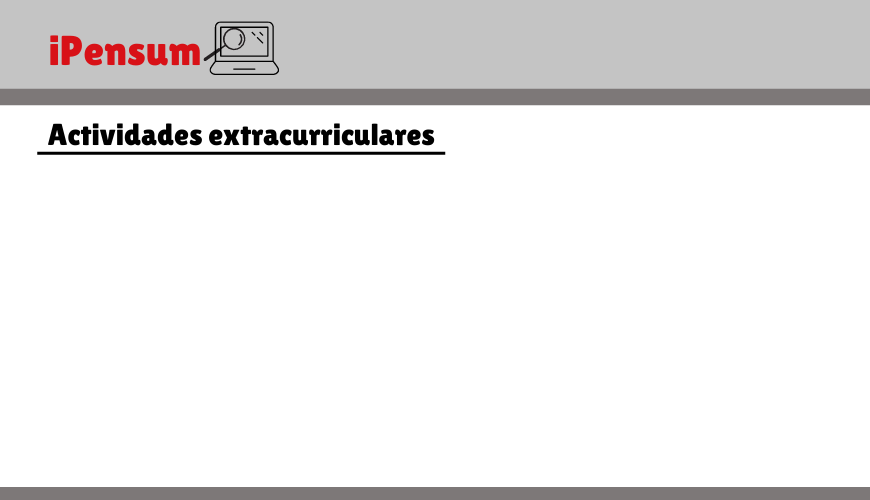
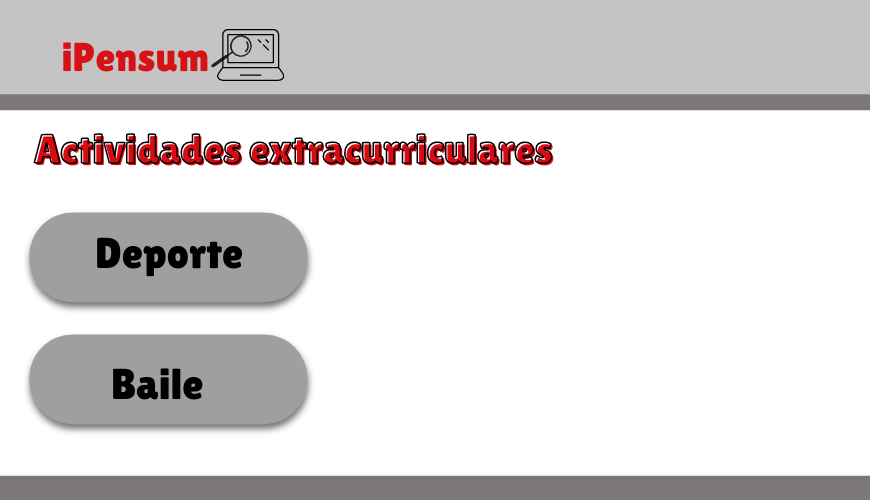
update

diff --git a/App.py b/App.py
@@ -12,11 +12,24 @@ ventana.title("iPensum")
 ventana.resizable(width=0, height=0)
 
 # CARGAR IMAGENES
-inicio = tk.PhotoImage(file="imagenes/inicio.png")#
-#"""
+inicio = tk.PhotoImage(file="imagenes/inicio.png")
+# """
 main = tk.PhotoImage(file="imagenes/main.png")
 Busqueda = tk.PhotoImage(file="imagenes/MenuBusqueda.png")
 busqE = tk.PhotoImage(file="imagenes/busqE.png")
+errorC = tk.PhotoImage(file="imagenes/CamposVacios.png")
+botonLogin = tk.PhotoImage(file="imagenes/botonLogin.png")
+Instrucciones = tk.PhotoImage(file="imagenes/Instrucciones.png")
+botonSeguir = tk.PhotoImage(file="imagenes/botonSeguirmain.png")
+eleccion = tk.PhotoImage(file="imagenes/elegirSemestre.png")
+borrar = tk.PhotoImage(file="imagenes/BotonBorrar.png")
+Cerrar = tk.PhotoImage(file="imagenes/BotonClose.png")
+InvalidCode = tk.PhotoImage(file="imagenes/codeInvalid.png")
+semPlantilla = tk.PhotoImage(file="imagenes/semestrePlantilla.png")
+menuExtra = tk.PhotoImage(file="imagenes/menuExtra.png")
+menuRating = tk.PhotoImage(file="imagenes/menuRating.png")
+
+# BOTONES
 botonGuest = tk.PhotoImage(file="imagenes/botonGuest.png")
 botonStudent = tk.PhotoImage(file="imagenes/botonStudent.png")
 botonTuerca = tk.PhotoImage(file="imagenes/botonTuerca.png")
@@ -25,18 +38,7 @@ botonMalla = tk.PhotoImage(file="imagenes/botonMalla.png")
 botonSemestre = tk.PhotoImage(file="imagenes/botonSemestre.png")
 botonActividades = tk.PhotoImage(file="imagenes/botonActividades.png")
 botonRating = tk.PhotoImage(file="imagenes/botonRating.png")
-errorC = tk.PhotoImage(file="imagenes/CamposVacios.png")
-botonLogin = tk.PhotoImage(file="imagenes/botonLogin.png")
-Instrucciones = tk.PhotoImage(file="imagenes/Instrucciones.png")
-botonSeguir = tk.PhotoImage(file="imagenes/botonSeguirmain.png")
-eleccion = tk.PhotoImage(file="imagenes/elegirSemestre.png")
-borrar = tk.PhotoImage(file="imagenes/BotonBorrar.png")
-InvalidCode = tk.PhotoImage(file="imagenes/codeInvalid.png")
-semPlantilla = tk.PhotoImage(file="imagenes/semestrePlantilla.png")
-menuExtra = tk.PhotoImage(file = "imagenes/MenuExtra.png")
-menuRating = tk.PhotoImage (file = "imagenes/menuRating.png")
-#"""
-# BOTONES 
+# Botones para el semestre 
 BotonPrimer = tk.PhotoImage(file="imagenes/BotonPrimer.png")
 BotonSegundo = tk.PhotoImage(file="imagenes/BotonSegundo.png")
 BotonTercero = tk.PhotoImage(file="imagenes/BotonTercero.png")
@@ -49,10 +51,8 @@ BotonNoveno = tk.PhotoImage(file="imagenes/BotonNoveno.png")
 BotonDecimo = tk.PhotoImage(file="imagenes/BotonDecimo.png")
 
 
-# NOTAAAAAAAA  -> font=("Calibri",14,"bold")
 
-
-def MainMenu(): #PRINCIPAL
+def MainMenu():  # PRINCIPAL
 
     fondo = tk.Label(ventana, image=inicio).place(x=0, y=0)  # FRAME
     # BOTON PARA INICIAR
@@ -63,6 +63,7 @@ def MainMenu(): #PRINCIPAL
     # Create a Button to call close()
     tk.Button(ventana, image=borrar, command=close, borderwidth=0,
               width=50, height=50, cursor="heart").place(x=800, y=29)
+
 
 def MenuInicial():  # La manera en la que desea ingresar (GUEST OR STUDENT)
     for ele in ventana.winfo_children():
@@ -75,7 +76,7 @@ def MenuInicial():  # La manera en la que desea ingresar (GUEST OR STUDENT)
     # Propiedades del boton, command = MenuBusqueda y command = MenuLogueo es lo que se debe ejecutar
     # BOTON PARA INVITADOS
     botonG = tk.Button(ventana, image=botonGuest, width=150,
-                       command=MenuBusqueda, cursor="heart", borderwidth=0) 
+                       command=MenuBusqueda, cursor="heart", borderwidth=0)
     botonG.place(x=235, y=400, height=60)
     # BOTON PARA ESTUDIANTES
     botonE = tk.Button(ventana, image=botonStudent, width=150,
@@ -86,7 +87,7 @@ def MenuInicial():  # La manera en la que desea ingresar (GUEST OR STUDENT)
                        borderwidth=0, command=MenuInstrucciones, cursor="heart")
     botonT.place(x=786, y=20, height=52)
     # Create a Button to call close()
-    tk.Button(ventana, image=borrar, command=close, borderwidth=0,
+    tk.Button(ventana, image=Cerrar, command=close, borderwidth=0,
               width=50, height=50, cursor="heart").place(x=10, y=3)
 
 
@@ -149,17 +150,18 @@ def MenuLogueo():  # Menu que me lleva al inicio de sesión como estudiante - LO
     botonB = tk.Button(ventana, image=botonBack, width=60,
                        command=MenuInicial, borderwidth=0, cursor="heart")
     botonB.place(x=750, y=11, height=69)
-    
+
     # Create a Button to call close()
-    tk.Button(ventana, image=borrar, command=close, borderwidth=0,
+    tk.Button(ventana, image=Cerrar, command=close, borderwidth=0,
               width=50, height=50, cursor="heart").place(x=10, y=3)
 
-def MenuBusqueda():  # En este menu, puede elegir que desea buscar 
+
+def MenuBusqueda():  # En este menu, puede elegir que desea buscar
     for ele in ventana.winfo_children():
         ele.destroy()
     interfaz = tk.Canvas(ventana)
     interfaz.pack()
-    label1 = tk.Label(interfaz, image= Busqueda)
+    label1 = tk.Label(interfaz, image=Busqueda)
     label1.pack()
 
     # RETURN MALLA
@@ -173,21 +175,22 @@ def MenuBusqueda():  # En este menu, puede elegir que desea buscar
 
     # RETURN ACTIVIDADES EXTRACURRICULARES
     botonA = tk.Button(ventana, image=botonActividades,
-                       width=310, borderwidth=0, command = MenuActividades, cursor="heart")
+                       width=310, borderwidth=0, command=MenuActividades, cursor="heart")
     botonA.place(x=482, y=350, height=40)
     # RETURN RATING ZONE
     botonR = tk.Button(ventana, image=botonRating, width=140,
-                       borderwidth=0, cursor="heart", command = MenuRating)
-    botonR.place(x=480, y=389, height=45)
+                       borderwidth=0, cursor="heart", command=MenuRating)
+    botonR.place(x=480, y=386, height=45)
 
     # BACK TO MAIN
     botonB = tk.Button(ventana, image=botonBack, width=60,
                        command=MenuInicial, borderwidth=0, cursor="heart")
     botonB.place(x=750, y=11, height=72)
-    
+
     # Create a Button to call close()
-    tk.Button(ventana, image=borrar, command=close, borderwidth=0,
+    tk.Button(ventana, image=Cerrar, command=close, borderwidth=0,
               width=50, height=50, cursor="heart").place(x=10, y=3)
+
 
 def MenuEleccionSemestre():  # Elección de semestre que desea ver
     for ele in ventana.winfo_children():
@@ -238,15 +241,15 @@ def MenuEleccionSemestre():  # Elección de semestre que desea ver
                             height=89, command=MenuSemestre, borderwidth=0, cursor="heart")
     botonDecimo.place(x=583, y=338)
 
-    #Back to menu de busqueda, para buscar algo de nuevo 
+    # Back to menu de busqueda, para buscar algo de nuevo
     botonB = tk.Button(ventana, image=botonBack, width=60,
                        command=MenuBusqueda, borderwidth=0, cursor="heart")
     botonB.place(x=750, y=11, height=72)
-    
+
     # Create a Button to call close()
-    tk.Button(ventana, image=borrar, command=close, borderwidth=0,
+    tk.Button(ventana, image=Cerrar, command=close, borderwidth=0,
               width=50, height=50, cursor="heart").place(x=10, y=3)
-    
+
 
 def MenuSemestre():  # Dependiendo de que semestre escoga, saldrá información acerca de esto
     for ele in ventana.winfo_children():
@@ -255,17 +258,15 @@ def MenuSemestre():  # Dependiendo de que semestre escoga, saldrá información 
     interfaz.pack()
     label1 = tk.Label(interfaz, image=semPlantilla)
     label1.pack()
-    
+
     # BACK TO MENU ESCOGENCIA (LO QUE QUIERE BUSCAR)
     botonB = tk.Button(ventana, image=botonBack, width=60,
-                    command=MenuEleccionSemestre, borderwidth=0, cursor="heart")
-    botonB.place(x=757, y= 7, height=72)
+                       command=MenuEleccionSemestre, borderwidth=0, cursor="heart")
+    botonB.place(x=757, y=7, height=72)
 
-    ##############################################
-    # ABRIR TXT DE MATERIAS, ESTE ES EL TXT DE LA INFO DE CADA MATERIA EN CADA SEM
-        
+    ''''
     txtM = []
-    with open("txtSemestre.txt") as fname:
+    with open("archivos_txt/txtSemestre.txt") as fname:
         for lineas in fname:
             txtM.append(lineas.split(","))
     i = 0
@@ -288,50 +289,62 @@ def MenuSemestre():  # Dependiendo de que semestre escoga, saldrá información 
     print (string)
     tk.Label(ventana, bg = "white", text=string,width = 90, height=2, font=("Calibri",14,"italic")).place(x=0,y=380)
     ##############################################
-    
+    '''
     # Create a Button to call close()
-    tk.Button(ventana, image=borrar, command=close, borderwidth=0,
+    tk.Button(ventana, image=Cerrar, command=close, borderwidth=0,
               width=50, height=50, cursor="heart").place(x=10, y=3)
 
-def MenuActividades (): #Menu de actividades extracurriculares 
+
+def MenuActividades():  # Menu de actividades extracurriculares
     for ele in ventana.winfo_children():
         ele.destroy()
     interfaz = tk.Canvas(ventana)
     interfaz.pack()
-    label1 = tk.Label(interfaz, image= menuExtra)
+    label1 = tk.Label(interfaz, image=menuExtra)
     label1.pack()
-    
-    
+
     # BACK TO MAIN
     botonB = tk.Button(ventana, image=botonBack, width=60,
                        command=MenuBusqueda, borderwidth=0, cursor="heart")
     botonB.place(x=750, y=11, height=69)
-    
+
     # Create a Button to call close()
-    tk.Button(ventana, image=borrar, command=close, borderwidth=0,
+    tk.Button(ventana, image=Cerrar, command=close, borderwidth=0,
               width=50, height=50, cursor="heart").place(x=10, y=3)
     
-def MenuRating(): #Menu de rating zone 
+    # Imprimir la información del txt como string
+    with open("archivos_txt/txtActividadesExtra.txt") as fname:
+        lines = fname.readlines()
+    # Conver list to str
+    string = "".join([str(item) for item in lines])
+    tk.Label(ventana, bg="white", text= string, width=50, height=10,
+             font=("Brown-courier", 14, "italic"), justify="left").place(x=310, y=218)
+
+def MenuRating():  # Menu de rating zone
     for ele in ventana.winfo_children():
-            ele.destroy()
+        ele.destroy()
     interfaz = tk.Canvas(ventana)
     interfaz.pack()
-    label1 = tk.Label(interfaz, image= menuRating)
+    label1 = tk.Label(interfaz, image=menuRating)
     label1.pack()
-    
+
     # BACK TO MAIN
     botonB = tk.Button(ventana, image=botonBack, width=60,
                        command=MenuBusqueda, borderwidth=0, cursor="heart")
     botonB.place(x=750, y=11, height=69)
-    
+
     # Create a Button to call close()
-    tk.Button(ventana, image=borrar, command=close, borderwidth=0,
-              width=50, height=50, cursor="heart").place(x=10, y=3)
-    
+    tk.Button(ventana, image=Cerrar, command=close, borderwidth=0,
+              width=35, height=30, cursor="heart").place(x=10, y=5)
+
+    # Imprimir la información del txt como string
     with open("archivos_txt/txtRating.txt") as fname:
         lines = fname.readlines()
-    string =" ".join([str(item) for item in lines])
-    tk.Label(ventana, bg = "white", text= string, width = 30, height= 8, font=("Calibri",20,"italic")).place(x=0,y=190)
+    # Conver list to str
+    string = "• ".join([str(item) for item in lines])
+    tk.Label(ventana, bg="gray77", text="• "+string, width=30, height=8,
+             font=("Brown-courier", 14, "italic"), justify="left").place(x=190, y=257)
+
 
 def MenuInstrucciones():  # Instrucciones de la app
 
@@ -345,7 +358,11 @@ def MenuInstrucciones():  # Instrucciones de la app
     # Boton back
     botonB = tk.Button(ventana, image=botonBack, width=60,
                        command=MenuInicial, borderwidth=0, cursor="heart")
-    botonB.place(x=11, y=11, height=72)
+    botonB.place(x=45, y=11, height=72)
+    # Create a Button to call close()
+    tk.Button(ventana, image=Cerrar, command=close, borderwidth=0,
+              width=35, height=50, cursor="heart").place(x=10, y=3)
+
 
 def close():   # Cerrar ventana en donde estemos
     # ventana.destroy()
